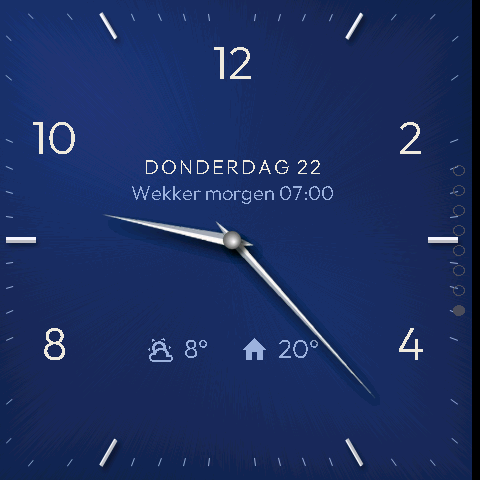
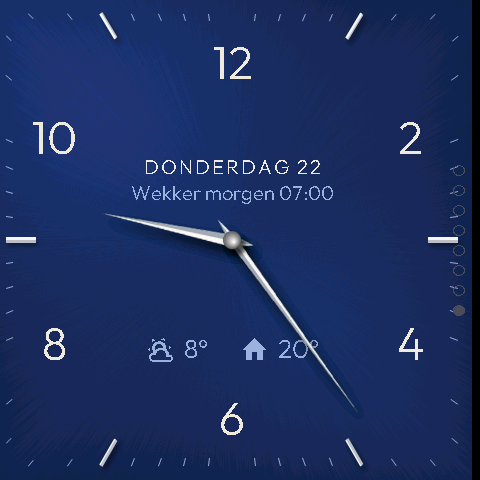
Vierkant: cijfer 6 op de wijzerplaat
Claude-Session: https://claude.ai/code/session_01CtYG5CCfVz9HHyKsYQVvyV

diff --git a/README.md b/README.md
@@ -80,8 +80,8 @@ Verder:
   een realistische analoge klok over het hele vierkante scherm, in de stijl van
   een vierkant horloge: een geborstelde sunray-plaat met lichtval van
   linksboven en een vleugje glasglans, opgezette gepolijste uurindexen en
-  facetwijzers met zachte schaduw, een bol asje, gedrukte cijfers 12, 2, 4, 8
-  en 10 en een minutenrand langs de rand. Onder het midden het weericoon met de
+  facetwijzers met zachte schaduw, een bol asje, gedrukte cijfers 12, 2, 4,
+  6, 8 en 10 en een minutenrand langs de rand. Onder het midden het weericoon met de
   buitentemperatuur en een huisje met de binnentemperatuur; datum en wekker
   klein bovenin. De wijzers verspringen per minuut. De kleur van de plaat kies
   je in HA met *Wijzerplaat* (blauw, zwart, zilver, zalm, groen, bordeaux); op
